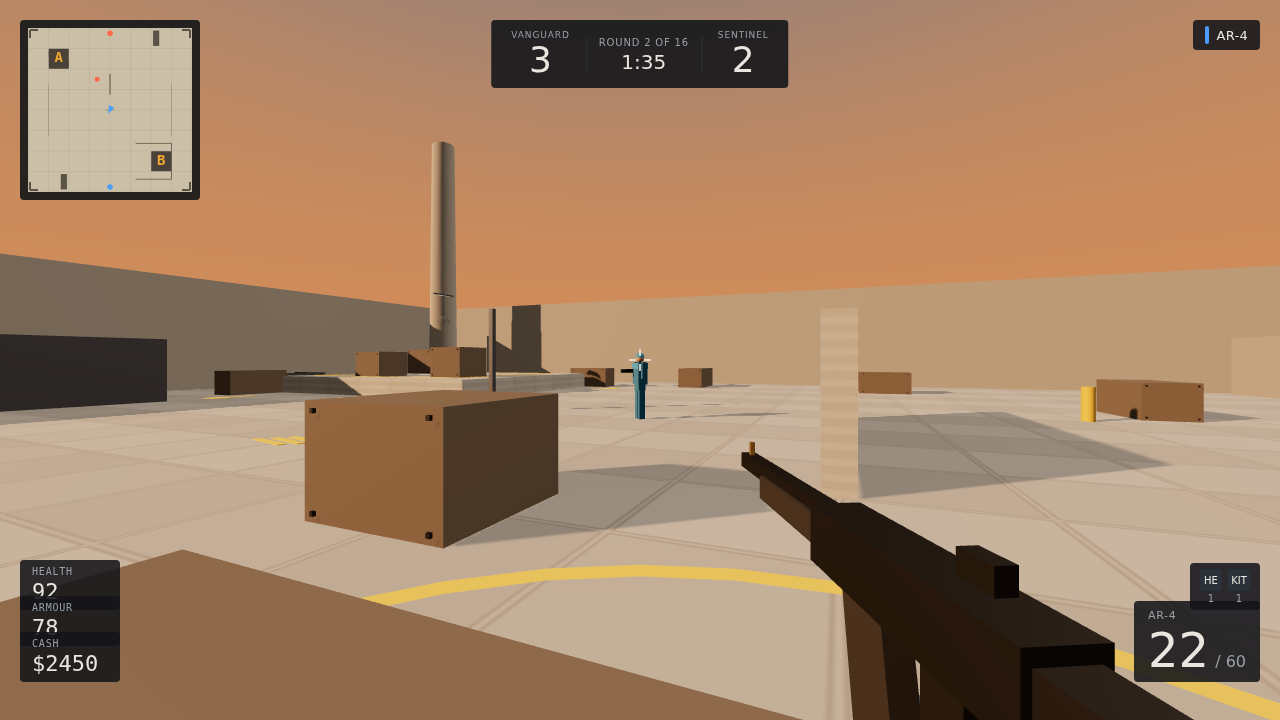
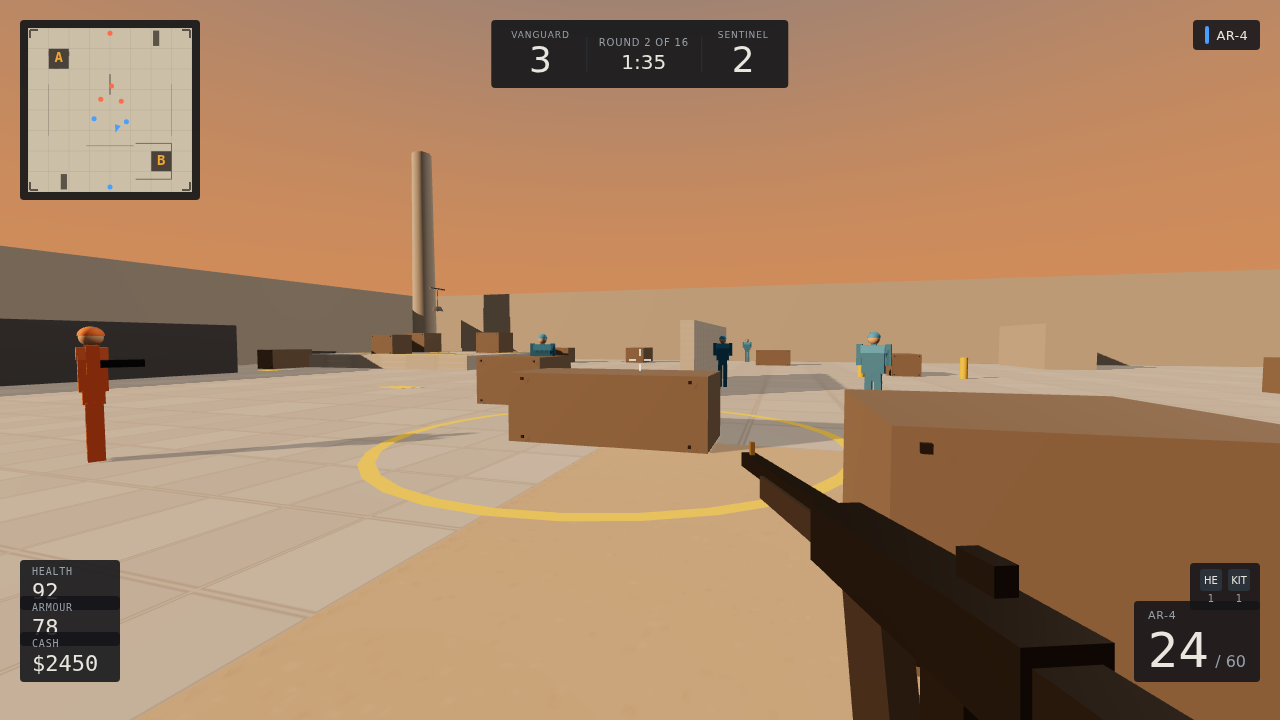
Planted bomb device, reframed screenshots, site layout fix

diff --git a/game/src/main.js b/game/src/main.js
@@ -18,6 +18,7 @@ import { createWeapon } from './weapon.js';
 import { createHud } from './hud.js';
 import { createBots } from './bots.js';
 import { createRounds } from './rounds.js';
+import { createBomb } from './bomb.js';
 import { createEconomy } from './economy.js';
 import { createAudio } from './audio.js';
 import { createBotMeshes, updateBotMeshes } from './render.js';
@@ -89,6 +90,7 @@ const hud = createHud(map);
 const player = createPlayer(map.colliders, state);
 const bots = createBots(state, map.waypoints);
 const rounds = createRounds(state);
+const bombDevice = createBomb(scene);
 const economy = createEconomy(state);
 economy.setWeaponRef(weapon);
 economy.setHudRef(hud);
@@ -404,6 +406,7 @@ function step(dt) {
       if (p.plantTime >= 3) {
         const site = isInSiteA ? 'a_site' : 'b_site';
         rounds.plantBomb(site);
+        bombDevice.place(site);
         hud.showRadio(`Bomb planted at ${site === 'a_site' ? 'A' : 'B'}`);
         p.hasBomb = false;
         p.planting = false;
@@ -515,6 +518,14 @@ function step(dt) {
 
   const prevPhase = state.round.phase;
   rounds.step(dt);
+
+  // The planted device follows the round state: one place decides whether it is in the world.
+  if (state.round.bombPlanted) {
+    if (!bombDevice.group.visible) bombDevice.place(state.round.bombSite);
+    bombDevice.step(dt, Math.max(0, 40 - state.round.bombTime));
+  } else {
+    bombDevice.hide();
+  }
 
   // Handle round transitions
   if (prevPhase !== 'buy' && state.round.phase === 'buy') {
@@ -628,32 +639,55 @@ function runShot(name) {
     hud.hideOverlay();
     bots.spawn();
     bots.assignRoles(random);
-    const enemyBot = state.bots.find(b => b.team === 'sentinel');
-    if (enemyBot) {
-      enemyBot.position.set(-5, 0, -12);
-      enemyBot.yaw = Math.PI * 0.75;
+    // Frame the mid lane: cover crates ahead, both teams in view, walls closing the shot.
+    const enemies = state.bots.filter(b => b.team === 'sentinel');
+    if (enemies[0]) {
+      enemies[0].position.set(-3.6, 0, -4.2);
+      enemies[0].yaw = 0.35;
+      enemies[0].alive = true;
     }
-    p.position.set(0, 0, 0);
-    aimAt(new THREE.Vector3(-5, 1.6, -12));
+    if (enemies[1]) {
+      enemies[1].position.set(4.4, 0, -3.4);
+      enemies[1].yaw = -0.3;
+      enemies[1].alive = true;
+    }
+    if (enemies[2]) {
+      enemies[2].position.set(0.6, 0, -9.4);
+      enemies[2].yaw = 0.1;
+      enemies[2].alive = true;
+    }
+    const friendlies = state.bots.filter(b => b.team === 'vanguard');
+    if (friendlies[0]) {
+      friendlies[0].position.set(-6.2, 0, 3.4);
+      friendlies[0].yaw = -0.4;
+      friendlies[0].alive = true;
+    }
+    if (friendlies[1]) {
+      friendlies[1].position.set(6.4, 0, 4.6);
+      friendlies[1].yaw = 0.5;
+      friendlies[1].alive = true;
+    }
+    p.position.set(2.6, 0, 7.4);
+    aimAt(new THREE.Vector3(-1.4, 1.05, -6.0));
     state.weapon.type = 'AR-4';
-    state.weapon.mag = 22;
+    state.weapon.mag = 24;
     state.weapon.reserve = 60;
-    state.player.health = 92;
-    state.player.armour = 78;
-    state.player.money = 2450;
-    state.player.grenades = 1;
+    p.health = 92;
+    p.armour = 78;
+    p.money = 2450;
+    p.grenades = 1;
     state.round.phase = 'live';
     state.round.phaseTime = 48;
     state.round.vanguardWins = 3;
     state.round.sentinelWins = 2;
   } else if (name === 'menu') {
-    p.position.set(0, 0, 28);
-    aimAt(new THREE.Vector3(0, 1.5, -5));
+    p.position.set(-17, 0, -12);
+    aimAt(new THREE.Vector3(-20, 1.6, -22));
     hud.showOverlay('start', 0, 0);
   } else if (name === 'buy') {
     hud.hideOverlay();
-    p.position.set(0, 0, 28);
-    aimAt(new THREE.Vector3(0, 1.5, 0));
+    p.position.set(12.5, 0, 15.5);
+    aimAt(new THREE.Vector3(20.5, 1.5, 21));
     state.player.money = 3500;
     state.player.team = 'sentinel';
     state.round.phase = 'buy';
@@ -663,15 +697,38 @@ function runShot(name) {
     hud.hideOverlay();
     bots.spawn();
     bots.assignRoles(random);
+    // Stand on the A-site platform looking across the site, defuser in view.
     const defuserBot = state.bots.find(b => b.team === 'sentinel');
     if (defuserBot) {
-      defuserBot.position.set(-20, 0.8, -22);
+      defuserBot.position.set(-20.4, 0.8, -21.6);
+      defuserBot.yaw = Math.PI * 0.1;
+      defuserBot.alive = true;
     }
-    p.position.set(-15, 0.8, -15);
-    aimAt(new THREE.Vector3(-20, 1.5, -20));
+    const guardBot = state.bots.filter(b => b.team === 'sentinel')[1];
+    if (guardBot) {
+      guardBot.position.set(-24.4, 0.8, -22.4);
+      guardBot.yaw = Math.PI * 0.35;
+      guardBot.alive = true;
+    }
+    const mates = state.bots.filter(b => b.team === 'vanguard');
+    for (let i = 0; i < mates.length; i += 1) {
+      mates[i].position.set(-12.8 + i * 1.7, 0, -14.4 - i * 1.6);
+      mates[i].yaw = Math.PI * 0.85;
+      mates[i].alive = true;
+    }
+    p.position.set(-16.2, 0.8, -16.0);
+    aimAt(new THREE.Vector3(-20.0, 0.55, -20.0));
+    state.weapon.type = 'AR-4';
+    state.weapon.mag = 18;
+    state.weapon.reserve = 60;
+    p.health = 88;
+    p.armour = 65;
+    p.money = 1750;
     state.round.bombPlanted = true;
     state.round.bombSite = 'a_site';
     state.round.bombTime = 20;
+    bombDevice.place('a_site');
+    bombDevice.step(0, 20);
     state.round.phase = 'live';
     hud.showBombIndicator('BOMB: 20s');
   }

diff --git a/game/src/bomb.js b/game/src/bomb.js
@@ -1,0 +1,89 @@
+// The planted bomb: a physical device at the bombsite, so the timer on the HUD
+// corresponds to something the player can see, walk up to and shoot.
+import * as THREE from 'three';
+
+const SITE_A = new THREE.Vector3(-20, 0.8, -20);
+const SITE_B = new THREE.Vector3(20, 0, 20);
+
+export function createBomb(scene) {
+  const group = new THREE.Group();
+  group.visible = false;
+  scene.add(group);
+
+  const caseMat = new THREE.MeshStandardMaterial({ color: new THREE.Color('#2a3028'), roughness: 0.72, metalness: 0.25 });
+  const trimMat = new THREE.MeshStandardMaterial({ color: new THREE.Color('#3f4a3a'), roughness: 0.6, metalness: 0.35 });
+  const ledMat = new THREE.MeshStandardMaterial({
+    color: new THREE.Color('#ff3a24'),
+    emissive: new THREE.Color('#ff3a24'),
+    emissiveIntensity: 2.4,
+    roughness: 0.4,
+    metalness: 0.0,
+  });
+
+  const body = new THREE.Mesh(new THREE.BoxGeometry(0.52, 0.24, 0.34), caseMat);
+  body.position.y = 0.12;
+  body.castShadow = true;
+  body.receiveShadow = true;
+  group.add(body);
+
+  const lid = new THREE.Mesh(new THREE.BoxGeometry(0.55, 0.045, 0.37), trimMat);
+  lid.position.y = 0.265;
+  lid.castShadow = true;
+  group.add(lid);
+
+  const strap = new THREE.Mesh(new THREE.BoxGeometry(0.09, 0.12, 0.40), trimMat);
+  strap.position.set(-0.12, 0.18, 0);
+  group.add(strap);
+
+  const led = new THREE.Mesh(new THREE.SphereGeometry(0.042, 10, 8), ledMat);
+  led.position.set(0.17, 0.23, 0.14);
+  group.add(led);
+
+  const antenna = new THREE.Mesh(new THREE.CylinderGeometry(0.012, 0.012, 0.34, 6), trimMat);
+  antenna.position.set(-0.20, 0.34, -0.09);
+  group.add(antenna);
+
+  // A warm pool of light under the device, so it reads at a glance at any distance.
+  const glow = new THREE.Mesh(
+    new THREE.CircleGeometry(1.5, 20),
+    new THREE.MeshStandardMaterial({
+      color: new THREE.Color('#ff6a3a'),
+      emissive: new THREE.Color('#ff6a3a'),
+      emissiveIntensity: 0.35,
+      roughness: 0.9,
+      metalness: 0.0,
+      transparent: true,
+      opacity: 0.55,
+    })
+  );
+  glow.rotation.x = -Math.PI / 2;
+  glow.position.y = 0.012;
+  group.add(glow);
+
+  const sitePosition = new THREE.Vector3();
+  let blink = 0;
+
+  // Place the device on the planted site. Called when the round reports a plant.
+  function place(site) {
+    sitePosition.copy(site === 'b_site' ? SITE_B : SITE_A);
+    group.position.copy(sitePosition);
+    group.visible = true;
+    blink = 0;
+  }
+
+  function hide() {
+    group.visible = false;
+  }
+
+  // Blink the LED faster as the timer runs down: a visible countdown in the world.
+  function step(dt, secondsLeft) {
+    if (!group.visible) return;
+    blink += dt;
+    const period = secondsLeft < 10 ? 0.18 : secondsLeft < 25 ? 0.4 : 0.8;
+    const on = (blink % period) < period * 0.5;
+    ledMat.emissiveIntensity = on ? 2.6 : 0.25;
+    glow.material.opacity = on ? 0.6 : 0.28;
+  }
+
+  return { place, hide, step, group };
+}

diff --git a/game/src/map.js b/game/src/map.js
@@ -204,7 +204,7 @@ export function createMap(scene) {
   box(12, 0.8, 10, -20, 0.4, -20, 'platform');
   // Crates on platform
   crate(1.8, 1.4, 1.8, -23, 1.5, -22);
-  crate(1.8, 1.4, 1.8, -17, 1.5, -18);
+  crate(1.8, 1.4, 1.8, -16.8, 1.5, -21.9);
   crate(1.6, 1.2, 1.6, -21, 1.4, -17);
   // Cover around A
   crate(2.4, 1.1, 1.2, -14, 0.55, -26);
@@ -257,9 +257,9 @@ export function createMap(scene) {
   crate(1.6, 0.6, 1.2, -16, 0.3, 8);
   crate(1.6, 0.6, 1.2, -16, 0.9, 8);
 
-  box(0.15, 3.2, 0.15, -10, 1.6, -12, 'metal');
-  box(0.15, 3.2, 0.15, 10, 1.6, 12, 'metal');
-  box(3.6, 0.2, 0.15, 0, 3.1, 0, 'metal');
+  box(0.15, 3.2, 0.15, -9, 1.6, 14, 'metal');
+  box(0.15, 3.2, 0.15, 9, 1.6, 14, 'metal');
+  box(18.2, 0.2, 0.15, 0, 3.1, 14, 'metal');
 
   function hangLamp(x, z) {
     const cableGeo = new THREE.CylinderGeometry(0.015, 0.015, 1.6, 6);
